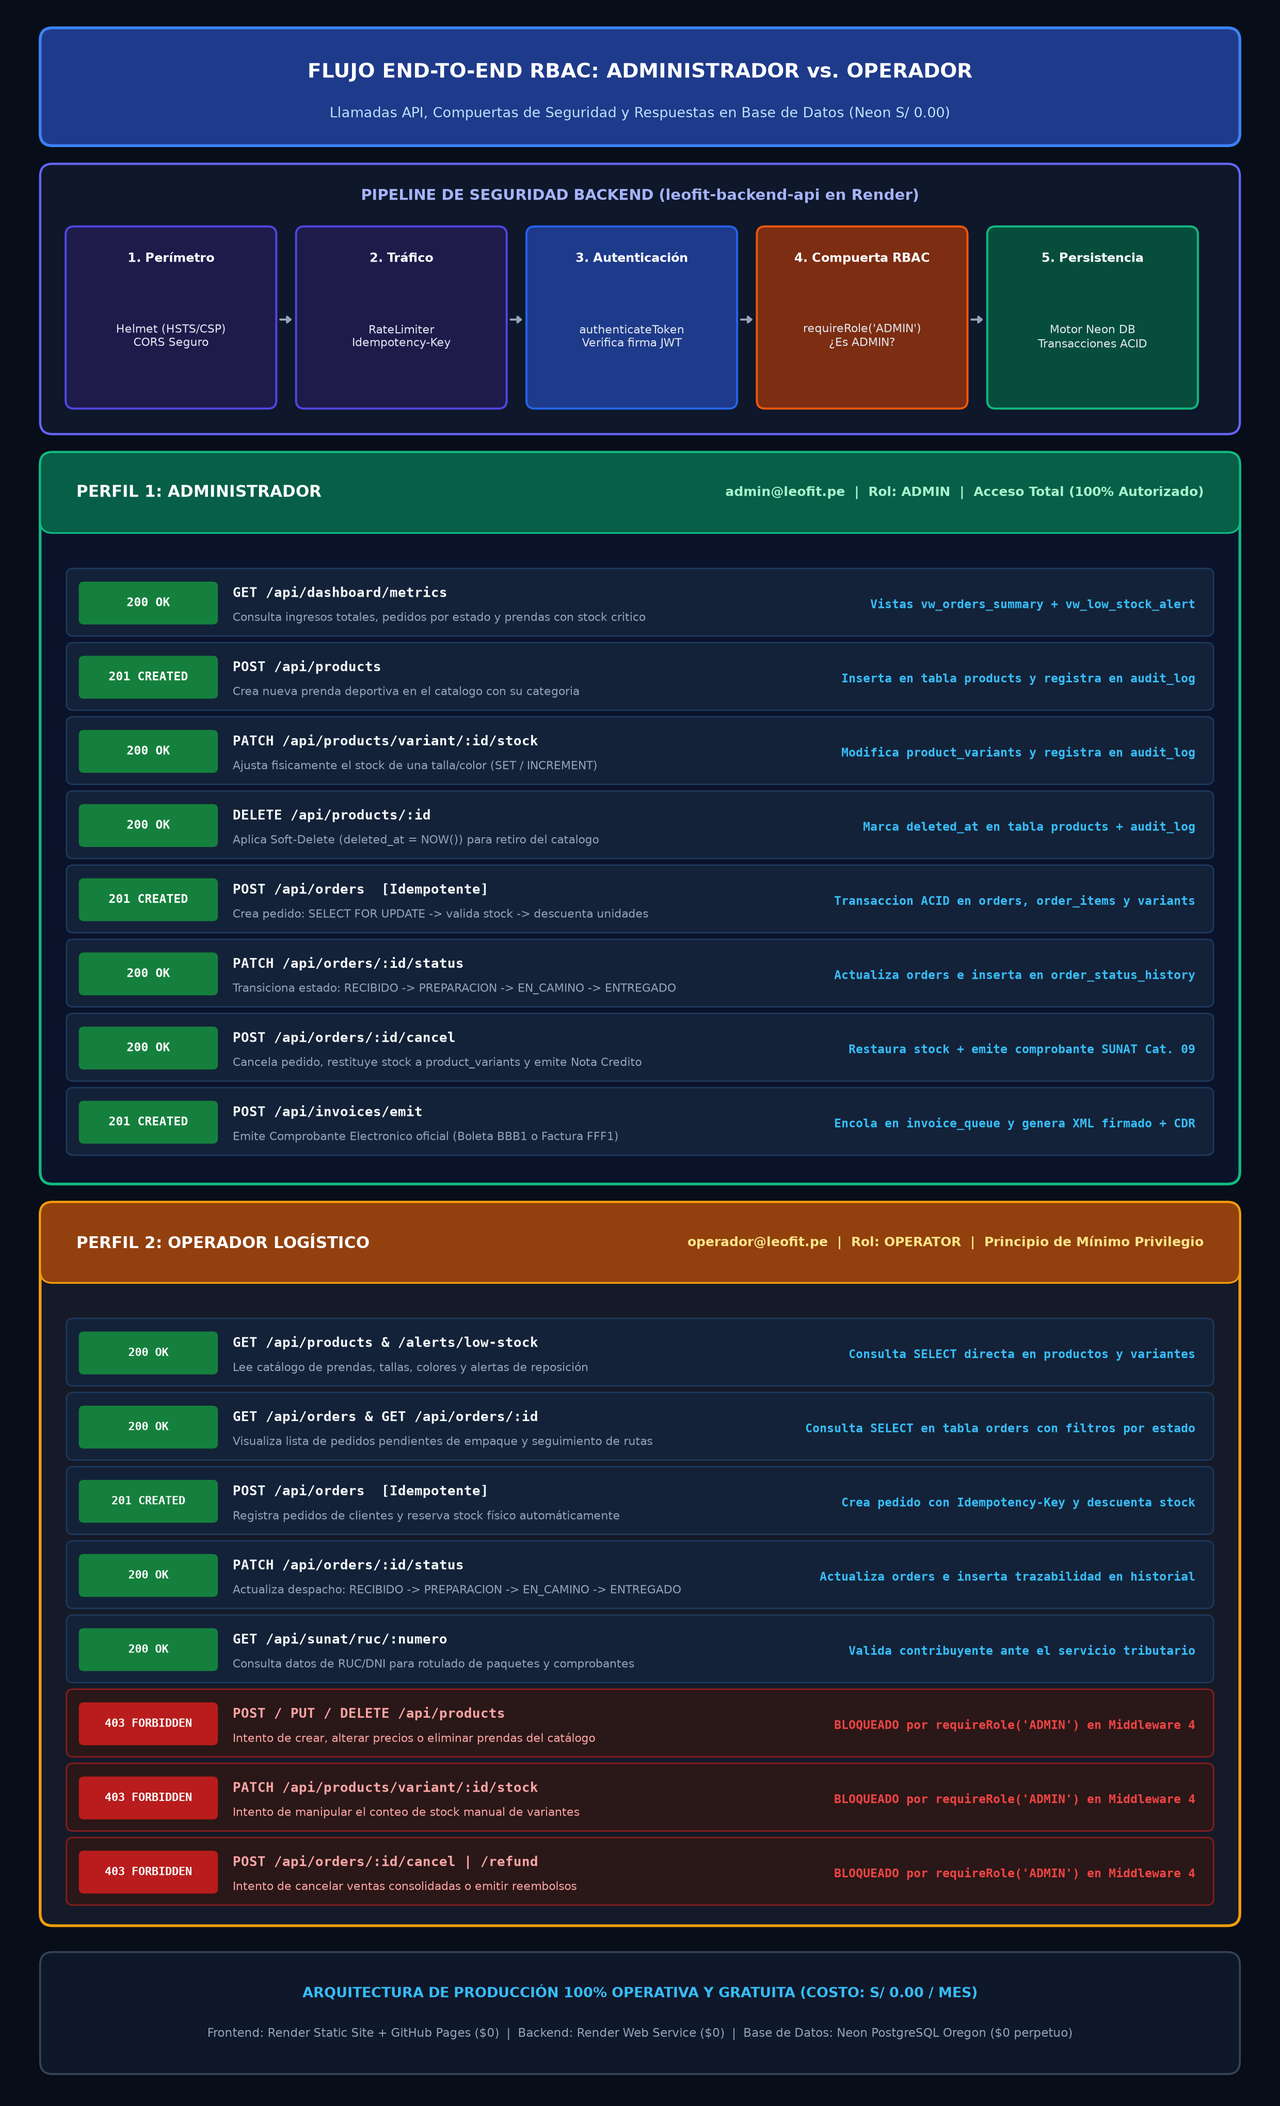
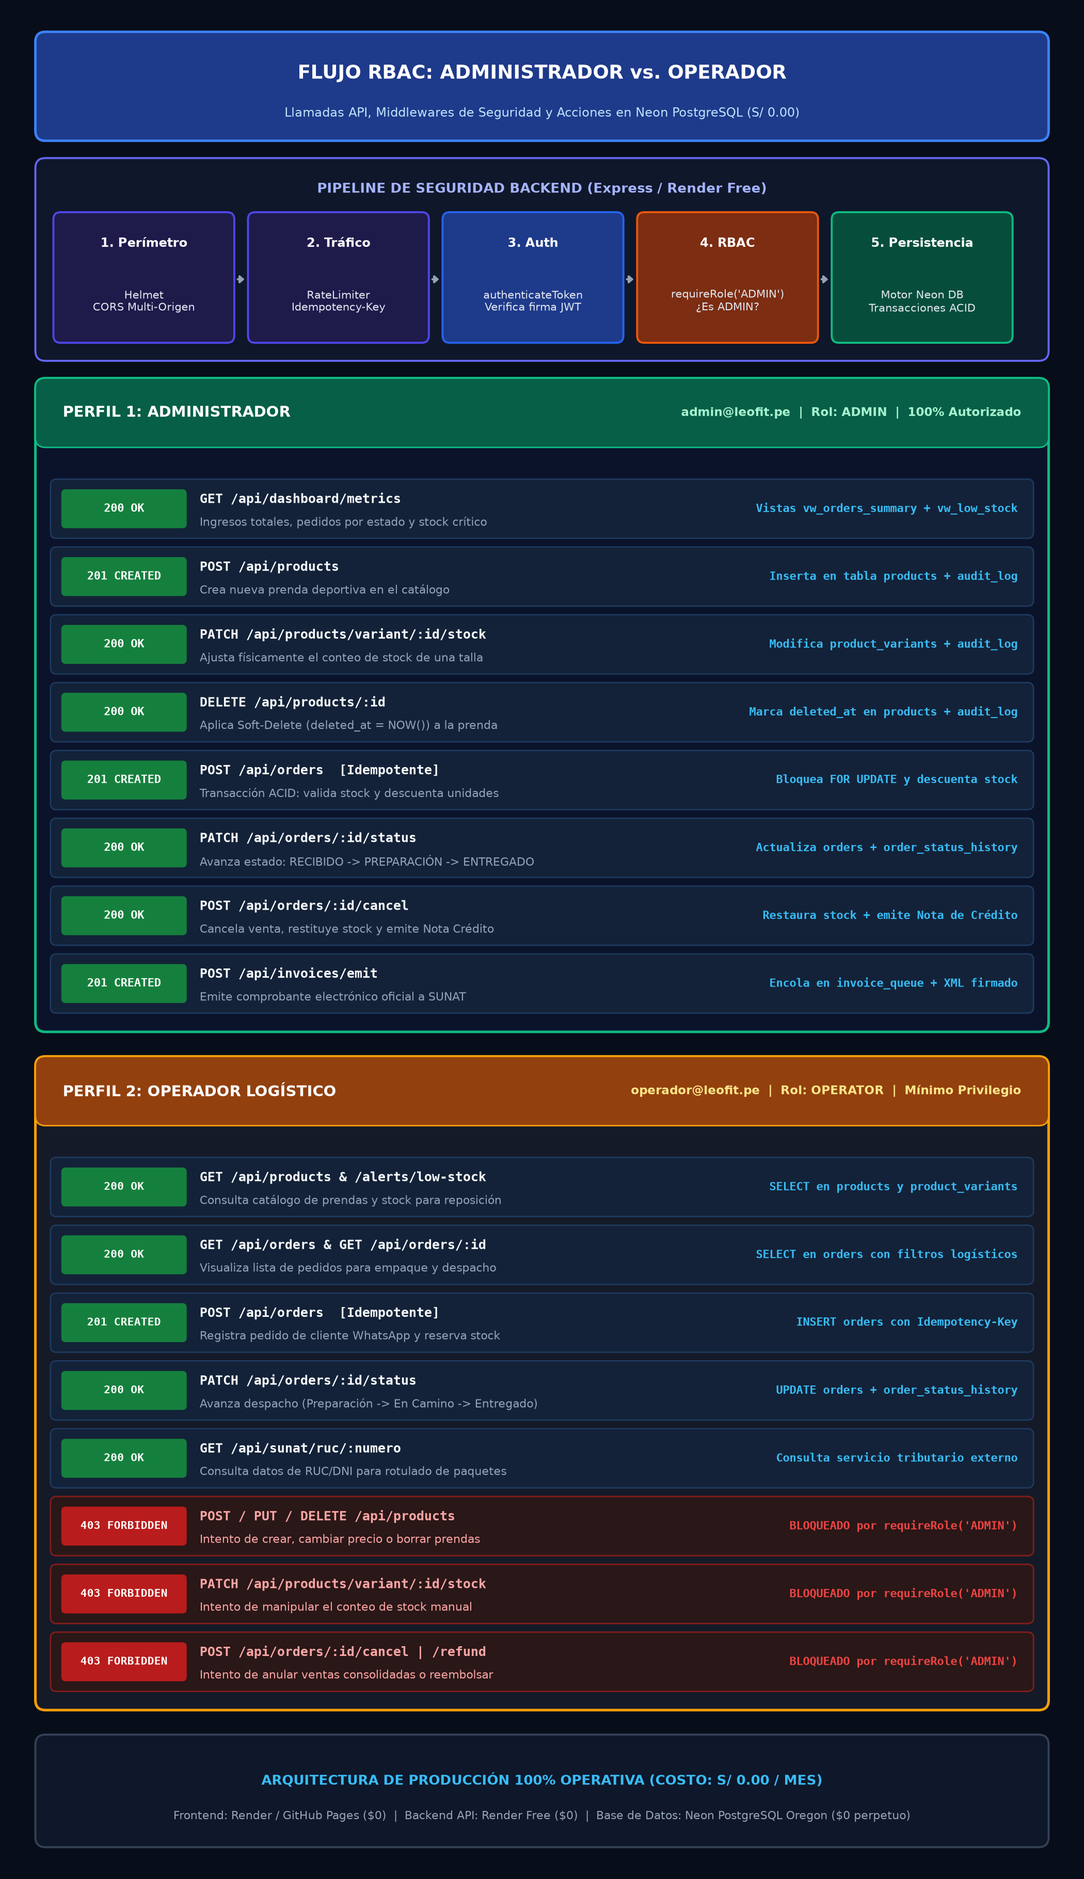
docs(diagrams): enlarge text fonts and widen layout to eliminate overlap in 15_Flujo_RBAC_Admin_vs_Operador.png

Changed region(s): [[0.031, 0.0, 0.9905, 0.9934], [0.031, 0.9624, 0.0619, 0.9934]]

diff --git a/scripts/generate_15_rbac_flow.py b/scripts/generate_15_rbac_flow.py
@@ -1,8 +1,8 @@
 # -*- coding: utf-8 -*-
 """
-Diagrama Vertical de Flujo RBAC: ADMIN vs. OPERADOR
-Diseñado con ancho compacto (15 pulgadas) y tipografía grande (11-18pt)
-para lectura directa y cómoda en cualquier monitor o visor de documentos sin necesidad de zoom.
+Diagrama de Flujo RBAC: ADMIN vs. OPERADOR
+Optimizado con tipografía GRANDE Y CLARA (12-19pt), espacio horizontal amplio (15.0 pulgadas)
+y márgenes generosos para CERO colisiones entre textos.
 """
 import os
 import matplotlib
@@ -17,204 +17,199 @@ OUT_PNG = os.path.join(OUT_DIR, "15_Flujo_RBAC_Admin_vs_Operador.png")
 def main():
     os.makedirs(OUT_DIR, exist_ok=True)
 
-    # Ancho contenido (15 pulgadas) x Alto generoso (25 pulgadas) para evitar el efecto de compresión horizontal
-    fig, ax = plt.subplots(figsize=(15.5, 25.5), dpi=160)
+    # 15.0 pulgadas de ancho para que el texto de la izquierda y la derecha tengan 2 pulgadas de margen libre
+    # 26.0 pulgadas de alto a 140 DPI
+    fig, ax = plt.subplots(figsize=(15.0, 26.0), dpi=140)
     fig.patch.set_facecolor("#080D1A")
     ax.set_facecolor("#080D1A")
-    ax.set_xlim(0, 15.5)
-    ax.set_ylim(0, 25.5)
+    ax.set_xlim(0, 15.0)
+    ax.set_ylim(0, 26.0)
     ax.axis("off")
 
     # 1. ENCABEZADO PRINCIPAL (BANNER)
     hdr_box = FancyBboxPatch(
-        (0.5, 23.8), 14.5, 1.35,
-        boxstyle="round,pad=0.04,rounding_size=0.15",
+        (0.50, 24.10), 14.0, 1.45,
+        boxstyle="round,pad=0.03,rounding_size=0.14",
         facecolor="#1E3A8A", edgecolor="#3B82F6", linewidth=2.5, zorder=3
     )
     ax.add_patch(hdr_box)
     ax.text(
-        7.75, 24.65,
-        "FLUJO END-TO-END RBAC: ADMINISTRADOR vs. OPERADOR",
-        color="#FFFFFF", fontsize=17.5, fontweight="bold", ha="center", va="center", zorder=5
+        7.50, 25.00,
+        "FLUJO RBAC: ADMINISTRADOR vs. OPERADOR",
+        color="#FFFFFF", fontsize=19.0, fontweight="bold", ha="center", va="center", zorder=5
     )
     ax.text(
-        7.75, 24.15,
-        "Llamadas API, Compuertas de Seguridad y Respuestas en Base de Datos (Neon S/ 0.00)",
-        color="#BAE6FD", fontsize=12.0, ha="center", va="center", zorder=5
+        7.50, 24.45,
+        "Llamadas API, Middlewares de Seguridad y Acciones en Neon PostgreSQL (S/ 0.00)",
+        color="#BAE6FD", fontsize=12.5, ha="center", va="center", zorder=5
     )
 
-    # 2. BLOQUE CENTRAL: PIPELINE DE MIDDLEWARES Y COMPUERTA RBAC
+    # 2. PIPELINE DE SEGURIDAD BACKEND
     mw_card = FancyBboxPatch(
-        (0.5, 20.3), 14.5, 3.2,
-        boxstyle="round,pad=0.04,rounding_size=0.15",
+        (0.50, 21.05), 14.0, 2.75,
+        boxstyle="round,pad=0.03,rounding_size=0.14",
         facecolor="#0F172A", edgecolor="#6366F1", linewidth=2.0, zorder=3
     )
     ax.add_patch(mw_card)
     ax.text(
-        7.75, 23.15,
-        "PIPELINE DE SEGURIDAD BACKEND (leofit-backend-api en Render)",
-        color="#A5B4FC", fontsize=13.0, fontweight="bold", ha="center", va="center", zorder=5
+        7.50, 23.40,
+        "PIPELINE DE SEGURIDAD BACKEND (Express / Render Free)",
+        color="#A5B4FC", fontsize=13.5, fontweight="bold", ha="center", va="center", zorder=5
     )
 
-    # Pastillas horizontales de los middlewares
     mws = [
-        ("1. Perímetro", "Helmet (HSTS/CSP)\nCORS Seguro", "#1E1B4B", "#4F46E5"),
+        ("1. Perímetro", "Helmet\nCORS Multi-Origen", "#1E1B4B", "#4F46E5"),
         ("2. Tráfico", "RateLimiter\nIdempotency-Key", "#1E1B4B", "#4F46E5"),
-        ("3. Autenticación", "authenticateToken\nVerifica firma JWT", "#1E3A8A", "#2563EB"),
-        ("4. Compuerta RBAC", "requireRole('ADMIN')\n¿Es ADMIN?", "#7C2D12", "#EA580C"),
+        ("3. Auth", "authenticateToken\nVerifica firma JWT", "#1E3A8A", "#2563EB"),
+        ("4. RBAC", "requireRole('ADMIN')\n¿Es ADMIN?", "#7C2D12", "#EA580C"),
         ("5. Persistencia", "Motor Neon DB\nTransacciones ACID", "#064E3B", "#10B981"),
     ]
     for idx, (m_title, m_desc, m_bg, m_border) in enumerate(mws):
-        bx = 0.8 + idx * 2.80
+        bx = 0.75 + idx * 2.70
         bp = FancyBboxPatch(
-            (bx, 20.6), 2.50, 2.15,
+            (bx, 21.30), 2.45, 1.75,
             boxstyle="round,pad=0.03,rounding_size=0.10",
-            facecolor=m_bg, edgecolor=m_border, linewidth=1.8, zorder=4
+            facecolor=m_bg, edgecolor=m_border, linewidth=2.0, zorder=4
         )
         ax.add_patch(bp)
-        ax.text(bx + 1.25, 22.35, m_title, color="#FFFFFF", fontsize=11.0, fontweight="bold", ha="center", zorder=5)
-        ax.text(bx + 1.25, 21.45, m_desc, color="#E2E8F0", fontsize=9.8, ha="center", va="center", zorder=5, linespacing=1.25)
+        ax.text(bx + 1.225, 22.60, m_title, color="#FFFFFF", fontsize=12.2, fontweight="bold", ha="center", zorder=5)
+        ax.text(bx + 1.225, 21.85, m_desc, color="#E2E8F0", fontsize=10.8, ha="center", va="center", zorder=5, linespacing=1.2)
         if idx < 4:
-            ax.annotate("", xy=(bx + 2.75, 21.65), xytext=(bx + 2.55, 21.65),
-                        arrowprops=dict(arrowstyle="-|>,head_width=0.25,head_length=0.30", color="#94A3B8", lw=1.8), zorder=6)
+            ax.annotate("", xy=(bx + 2.65, 22.15), xytext=(bx + 2.50, 22.15),
+                        arrowprops=dict(arrowstyle="-|>,head_width=0.30,head_length=0.35", color="#94A3B8", lw=2.0), zorder=6)
 
     # 3. SECCIÓN ADMINISTRADOR (role: ADMIN)
     adm_box = FancyBboxPatch(
-        (0.5, 11.2), 14.5, 8.8,
-        boxstyle="round,pad=0.04,rounding_size=0.15",
-        facecolor="#0B132B", edgecolor="#10B981", linewidth=2.4, zorder=3
+        (0.50, 11.75), 14.0, 9.00,
+        boxstyle="round,pad=0.03,rounding_size=0.14",
+        facecolor="#0B132B", edgecolor="#10B981", linewidth=2.6, zorder=3
     )
     ax.add_patch(adm_box)
 
     # Header Admin
     adm_hdr = FancyBboxPatch(
-        (0.5, 19.1), 14.5, 0.9,
-        boxstyle="round,pad=0.04,rounding_size=0.15",
+        (0.50, 19.85), 14.0, 0.90,
+        boxstyle="round,pad=0.03,rounding_size=0.14",
         facecolor="#065F46", edgecolor="#10B981", linewidth=1.5, zorder=4
     )
     ax.add_patch(adm_hdr)
-    ax.text(0.9, 19.55, "PERFIL 1: ADMINISTRADOR", color="#FFFFFF", fontsize=14.0, fontweight="bold", va="center", zorder=5)
-    ax.text(14.6, 19.55, "admin@leofit.pe  |  Rol: ADMIN  |  Acceso Total (100% Autorizado)", color="#A7F3D0", fontsize=11.2, fontweight="bold", ha="right", va="center", zorder=5)
+    ax.text(0.85, 20.30, "PERFIL 1: ADMINISTRADOR", color="#FFFFFF", fontsize=15.0, fontweight="bold", va="center", zorder=5)
+    ax.text(14.15, 20.30, "admin@leofit.pe  |  Rol: ADMIN  |  100% Autorizado", color="#A7F3D0", fontsize=12.0, fontweight="bold", ha="right", va="center", zorder=5)
 
     admin_calls = [
-        ("200 OK", "GET /api/dashboard/metrics", "Consulta ingresos totales, pedidos por estado y prendas con stock critico", "Vistas vw_orders_summary + vw_low_stock_alert"),
-        ("201 CREATED", "POST /api/products", "Crea nueva prenda deportiva en el catalogo con su categoria", "Inserta en tabla products y registra en audit_log"),
-        ("200 OK", "PATCH /api/products/variant/:id/stock", "Ajusta fisicamente el stock de una talla/color (SET / INCREMENT)", "Modifica product_variants y registra en audit_log"),
-        ("200 OK", "DELETE /api/products/:id", "Aplica Soft-Delete (deleted_at = NOW()) para retiro del catalogo", "Marca deleted_at en tabla products + audit_log"),
-        ("201 CREATED", "POST /api/orders  [Idempotente]", "Crea pedido: SELECT FOR UPDATE -> valida stock -> descuenta unidades", "Transaccion ACID en orders, order_items y variants"),
-        ("200 OK", "PATCH /api/orders/:id/status", "Transiciona estado: RECIBIDO -> PREPARACION -> EN_CAMINO -> ENTREGADO", "Actualiza orders e inserta en order_status_history"),
-        ("200 OK", "POST /api/orders/:id/cancel", "Cancela pedido, restituye stock a product_variants y emite Nota Credito", "Restaura stock + emite comprobante SUNAT Cat. 09"),
-        ("201 CREATED", "POST /api/invoices/emit", "Emite Comprobante Electronico oficial (Boleta BBB1 o Factura FFF1)", "Encola en invoice_queue y genera XML firmado + CDR"),
+        ("200 OK", "GET /api/dashboard/metrics", "Ingresos totales, pedidos por estado y stock crítico", "Vistas vw_orders_summary + vw_low_stock"),
+        ("201 CREATED", "POST /api/products", "Crea nueva prenda deportiva en el catálogo", "Inserta en tabla products + audit_log"),
+        ("200 OK", "PATCH /api/products/variant/:id/stock", "Ajusta físicamente el conteo de stock de una talla", "Modifica product_variants + audit_log"),
+        ("200 OK", "DELETE /api/products/:id", "Aplica Soft-Delete (deleted_at = NOW()) a la prenda", "Marca deleted_at en products + audit_log"),
+        ("201 CREATED", "POST /api/orders  [Idempotente]", "Transacción ACID: valida stock y descuenta unidades", "Bloquea FOR UPDATE y descuenta stock"),
+        ("200 OK", "PATCH /api/orders/:id/status", "Avanza estado: RECIBIDO -> PREPARACIÓN -> ENTREGADO", "Actualiza orders + order_status_history"),
+        ("200 OK", "POST /api/orders/:id/cancel", "Cancela venta, restituye stock y emite Nota Crédito", "Restaura stock + emite Nota de Crédito"),
+        ("201 CREATED", "POST /api/invoices/emit", "Emite comprobante electrónico oficial a SUNAT", "Encola en invoice_queue + XML firmado"),
     ]
 
-    y_adm = 18.55
+    y_adm = 19.30
     for status_code, endpoint, desc, bd_action in admin_calls:
-        # Fila de llamada
         row_p = FancyBboxPatch(
-            (0.8, y_adm - 0.72), 13.9, 0.78,
+            (0.70, y_adm - 0.72), 13.6, 0.78,
             boxstyle="round,pad=0.02,rounding_size=0.08",
-            facecolor="#132238", edgecolor="#1E3A5F", linewidth=1.2, zorder=4
+            facecolor="#132238", edgecolor="#1E3A5F", linewidth=1.4, zorder=4
         )
         ax.add_patch(row_p)
 
-        # Badge HTTP
         badge_p = FancyBboxPatch(
-            (0.95, y_adm - 0.58), 1.65, 0.48,
+            (0.85, y_adm - 0.58), 1.70, 0.50,
             boxstyle="round,pad=0.02,rounding_size=0.06",
-            facecolor="#15803D" if "200" in status_code or "201" in status_code else "#B91C1C",
-            edgecolor="none", zorder=5
+            facecolor="#15803D", edgecolor="none", zorder=5
         )
         ax.add_patch(badge_p)
-        ax.text(1.775, y_adm - 0.34, status_code, color="#FFFFFF", fontsize=10.5, fontweight="bold", ha="center", va="center", family="DejaVu Sans Mono", zorder=6)
+        ax.text(1.70, y_adm - 0.33, status_code, color="#FFFFFF", fontsize=11.2, fontweight="bold", ha="center", va="center", family="DejaVu Sans Mono", zorder=6)
 
-        # Endpoint y Descripción
-        ax.text(2.80, y_adm - 0.22, endpoint, color="#F8FAFC", fontsize=11.6, fontweight="bold", family="DejaVu Sans Mono", va="center", zorder=5)
-        ax.text(2.80, y_adm - 0.52, desc, color="#94A3B8", fontsize=10.0, va="center", zorder=5)
+        ax.text(2.75, y_adm - 0.20, endpoint, color="#F8FAFC", fontsize=12.8, fontweight="bold", family="DejaVu Sans Mono", va="center", zorder=5)
+        ax.text(2.75, y_adm - 0.52, desc, color="#94A3B8", fontsize=11.2, va="center", zorder=5)
 
-        # Acción en Neon DB
-        ax.text(14.5, y_adm - 0.36, bd_action, color="#38BDF8", fontsize=10.2, fontweight="bold", ha="right", va="center", family="DejaVu Sans Mono", zorder=5)
+        ax.text(14.10, y_adm - 0.33, bd_action, color="#38BDF8", fontsize=11.4, fontweight="bold", ha="right", va="center", family="DejaVu Sans Mono", zorder=5)
 
-        y_adm -= 0.90
+        y_adm -= 0.94
 
     # 4. SECCIÓN OPERADOR LOGÍSTICO (role: OPERATOR)
     opr_box = FancyBboxPatch(
-        (0.5, 2.2), 14.5, 8.7,
-        boxstyle="round,pad=0.04,rounding_size=0.15",
-        facecolor="#151A28", edgecolor="#F59E0B", linewidth=2.4, zorder=3
+        (0.50, 2.35), 14.0, 9.00,
+        boxstyle="round,pad=0.03,rounding_size=0.14",
+        facecolor="#151A28", edgecolor="#F59E0B", linewidth=2.6, zorder=3
     )
     ax.add_patch(opr_box)
 
     # Header Operador
     opr_hdr = FancyBboxPatch(
-        (0.5, 10.0), 14.5, 0.9,
-        boxstyle="round,pad=0.04,rounding_size=0.15",
+        (0.50, 10.45), 14.0, 0.90,
+        boxstyle="round,pad=0.03,rounding_size=0.14",
         facecolor="#92400E", edgecolor="#F59E0B", linewidth=1.5, zorder=4
     )
     ax.add_patch(opr_hdr)
-    ax.text(0.9, 10.45, "PERFIL 2: OPERADOR LOGÍSTICO", color="#FFFFFF", fontsize=14.0, fontweight="bold", va="center", zorder=5)
-    ax.text(14.6, 10.45, "operador@leofit.pe  |  Rol: OPERATOR  |  Principio de Mínimo Privilegio", color="#FDE68A", fontsize=11.2, fontweight="bold", ha="right", va="center", zorder=5)
+    ax.text(0.85, 10.90, "PERFIL 2: OPERADOR LOGÍSTICO", color="#FFFFFF", fontsize=15.0, fontweight="bold", va="center", zorder=5)
+    ax.text(14.15, 10.90, "operador@leofit.pe  |  Rol: OPERATOR  |  Mínimo Privilegio", color="#FDE68A", fontsize=12.0, fontweight="bold", ha="right", va="center", zorder=5)
 
     oper_calls = [
         # Operaciones Permitidas
-        ("200 OK", "GET /api/products & /alerts/low-stock", "Lee catálogo de prendas, tallas, colores y alertas de reposición", "Consulta SELECT directa en productos y variantes"),
-        ("200 OK", "GET /api/orders & GET /api/orders/:id", "Visualiza lista de pedidos pendientes de empaque y seguimiento de rutas", "Consulta SELECT en tabla orders con filtros por estado"),
-        ("201 CREATED", "POST /api/orders  [Idempotente]", "Registra pedidos de clientes y reserva stock físico automáticamente", "Crea pedido con Idempotency-Key y descuenta stock"),
-        ("200 OK", "PATCH /api/orders/:id/status", "Actualiza despacho: RECIBIDO -> PREPARACION -> EN_CAMINO -> ENTREGADO", "Actualiza orders e inserta trazabilidad en historial"),
-        ("200 OK", "GET /api/sunat/ruc/:numero", "Consulta datos de RUC/DNI para rotulado de paquetes y comprobantes", "Valida contribuyente ante el servicio tributario"),
+        ("200 OK", "GET /api/products & /alerts/low-stock", "Consulta catálogo de prendas y stock para reposición", "SELECT en products y product_variants"),
+        ("200 OK", "GET /api/orders & GET /api/orders/:id", "Visualiza lista de pedidos para empaque y despacho", "SELECT en orders con filtros logísticos"),
+        ("201 CREATED", "POST /api/orders  [Idempotente]", "Registra pedido de cliente WhatsApp y reserva stock", "INSERT orders con Idempotency-Key"),
+        ("200 OK", "PATCH /api/orders/:id/status", "Avanza despacho (Preparación -> En Camino -> Entregado)", "UPDATE orders + order_status_history"),
+        ("200 OK", "GET /api/sunat/ruc/:numero", "Consulta datos de RUC/DNI para rotulado de paquetes", "Consulta servicio tributario externo"),
         # Operaciones Bloqueadas por RBAC
-        ("403 FORBIDDEN", "POST / PUT / DELETE /api/products", "Intento de crear, alterar precios o eliminar prendas del catálogo", "BLOQUEADO por requireRole('ADMIN') en Middleware 4"),
-        ("403 FORBIDDEN", "PATCH /api/products/variant/:id/stock", "Intento de manipular el conteo de stock manual de variantes", "BLOQUEADO por requireRole('ADMIN') en Middleware 4"),
-        ("403 FORBIDDEN", "POST /api/orders/:id/cancel | /refund", "Intento de cancelar ventas consolidadas o emitir reembolsos", "BLOQUEADO por requireRole('ADMIN') en Middleware 4"),
+        ("403 FORBIDDEN", "POST / PUT / DELETE /api/products", "Intento de crear, cambiar precio o borrar prendas", "BLOQUEADO por requireRole('ADMIN')"),
+        ("403 FORBIDDEN", "PATCH /api/products/variant/:id/stock", "Intento de manipular el conteo de stock manual", "BLOQUEADO por requireRole('ADMIN')"),
+        ("403 FORBIDDEN", "POST /api/orders/:id/cancel | /refund", "Intento de anular ventas consolidadas o reembolsar", "BLOQUEADO por requireRole('ADMIN')"),
     ]
 
-    y_opr = 9.45
+    y_opr = 9.90
     for status_code, endpoint, desc, bd_action in oper_calls:
         is_blocked = "403" in status_code
         row_p = FancyBboxPatch(
-            (0.8, y_opr - 0.72), 13.9, 0.78,
+            (0.70, y_opr - 0.72), 13.6, 0.78,
             boxstyle="round,pad=0.02,rounding_size=0.08",
             facecolor="#2A1717" if is_blocked else "#132238",
             edgecolor="#7F1D1D" if is_blocked else "#1E3A5F",
-            linewidth=1.4 if is_blocked else 1.2, zorder=4
+            linewidth=1.5 if is_blocked else 1.4, zorder=4
         )
         ax.add_patch(row_p)
 
         badge_p = FancyBboxPatch(
-            (0.95, y_opr - 0.58), 1.65, 0.48,
+            (0.85, y_opr - 0.58), 1.70, 0.50,
             boxstyle="round,pad=0.02,rounding_size=0.06",
             facecolor="#B91C1C" if is_blocked else "#15803D",
             edgecolor="none", zorder=5
         )
         ax.add_patch(badge_p)
-        ax.text(1.775, y_opr - 0.34, status_code, color="#FFFFFF", fontsize=10.0, fontweight="bold", ha="center", va="center", family="DejaVu Sans Mono", zorder=6)
+        ax.text(1.70, y_opr - 0.33, status_code, color="#FFFFFF", fontsize=10.6, fontweight="bold", ha="center", va="center", family="DejaVu Sans Mono", zorder=6)
 
-        ax.text(2.80, y_opr - 0.22, endpoint, color="#FCA5A5" if is_blocked else "#F8FAFC", fontsize=11.6, fontweight="bold", family="DejaVu Sans Mono", va="center", zorder=5)
-        ax.text(2.80, y_opr - 0.52, desc, color="#FCA5A5" if is_blocked else "#94A3B8", fontsize=10.0, va="center", zorder=5)
+        ax.text(2.75, y_opr - 0.20, endpoint, color="#FCA5A5" if is_blocked else "#F8FAFC", fontsize=12.8, fontweight="bold", family="DejaVu Sans Mono", va="center", zorder=5)
+        ax.text(2.75, y_opr - 0.52, desc, color="#FCA5A5" if is_blocked else "#94A3B8", fontsize=11.2, va="center", zorder=5)
 
-        ax.text(14.5, y_opr - 0.36, bd_action, color="#EF4444" if is_blocked else "#38BDF8", fontsize=10.2, fontweight="bold", ha="right", va="center", family="DejaVu Sans Mono", zorder=5)
+        ax.text(14.10, y_opr - 0.33, bd_action, color="#EF4444" if is_blocked else "#38BDF8", fontsize=11.4, fontweight="bold", ha="right", va="center", family="DejaVu Sans Mono", zorder=5)
 
-        y_opr -= 0.90
+        y_opr -= 0.94
 
-    # 5. PIE DE PÁGINA (COSTO S/ 0.00 Y TECNOLOGÍAS)
+    # 5. PIE DE PÁGINA (COSTO S/ 0.00)
     ftr_box = FancyBboxPatch(
-        (0.5, 0.4), 14.5, 1.4,
-        boxstyle="round,pad=0.04,rounding_size=0.15",
-        facecolor="#0F172A", edgecolor="#334155", linewidth=1.8, zorder=3
+        (0.50, 0.45), 14.0, 1.50,
+        boxstyle="round,pad=0.03,rounding_size=0.14",
+        facecolor="#0F172A", edgecolor="#334155", linewidth=2.0, zorder=3
     )
     ax.add_patch(ftr_box)
     ax.text(
-        7.75, 1.35,
-        "ARQUITECTURA DE PRODUCCIÓN 100% OPERATIVA Y GRATUITA (COSTO: S/ 0.00 / MES)",
-        color="#38BDF8", fontsize=12.0, fontweight="bold", ha="center", va="center", zorder=5
+        7.50, 1.35,
+        "ARQUITECTURA DE PRODUCCIÓN 100% OPERATIVA (COSTO: S/ 0.00 / MES)",
+        color="#38BDF8", fontsize=13.5, fontweight="bold", ha="center", va="center", zorder=5
     )
     ax.text(
-        7.75, 0.85,
-        "Frontend: Render Static Site + GitHub Pages ($0)  |  Backend: Render Web Service ($0)  |  Base de Datos: Neon PostgreSQL Oregon ($0 perpetuo)",
-        color="#94A3B8", fontsize=10.4, ha="center", va="center", zorder=5
+        7.50, 0.85,
+        "Frontend: Render / GitHub Pages ($0)  |  Backend API: Render Free ($0)  |  Base de Datos: Neon PostgreSQL Oregon ($0 perpetuo)",
+        color="#94A3B8", fontsize=11.2, ha="center", va="center", zorder=5
     )
 
-    plt.tight_layout(pad=0.20)
-    plt.savefig(OUT_PNG, dpi=160, facecolor=fig.get_facecolor())
+    plt.tight_layout(pad=0.15)
+    plt.savefig(OUT_PNG, dpi=140, facecolor=fig.get_facecolor())
     plt.close(fig)
     print(f"Generated {OUT_PNG} ({os.path.getsize(OUT_PNG)} bytes)")
 
